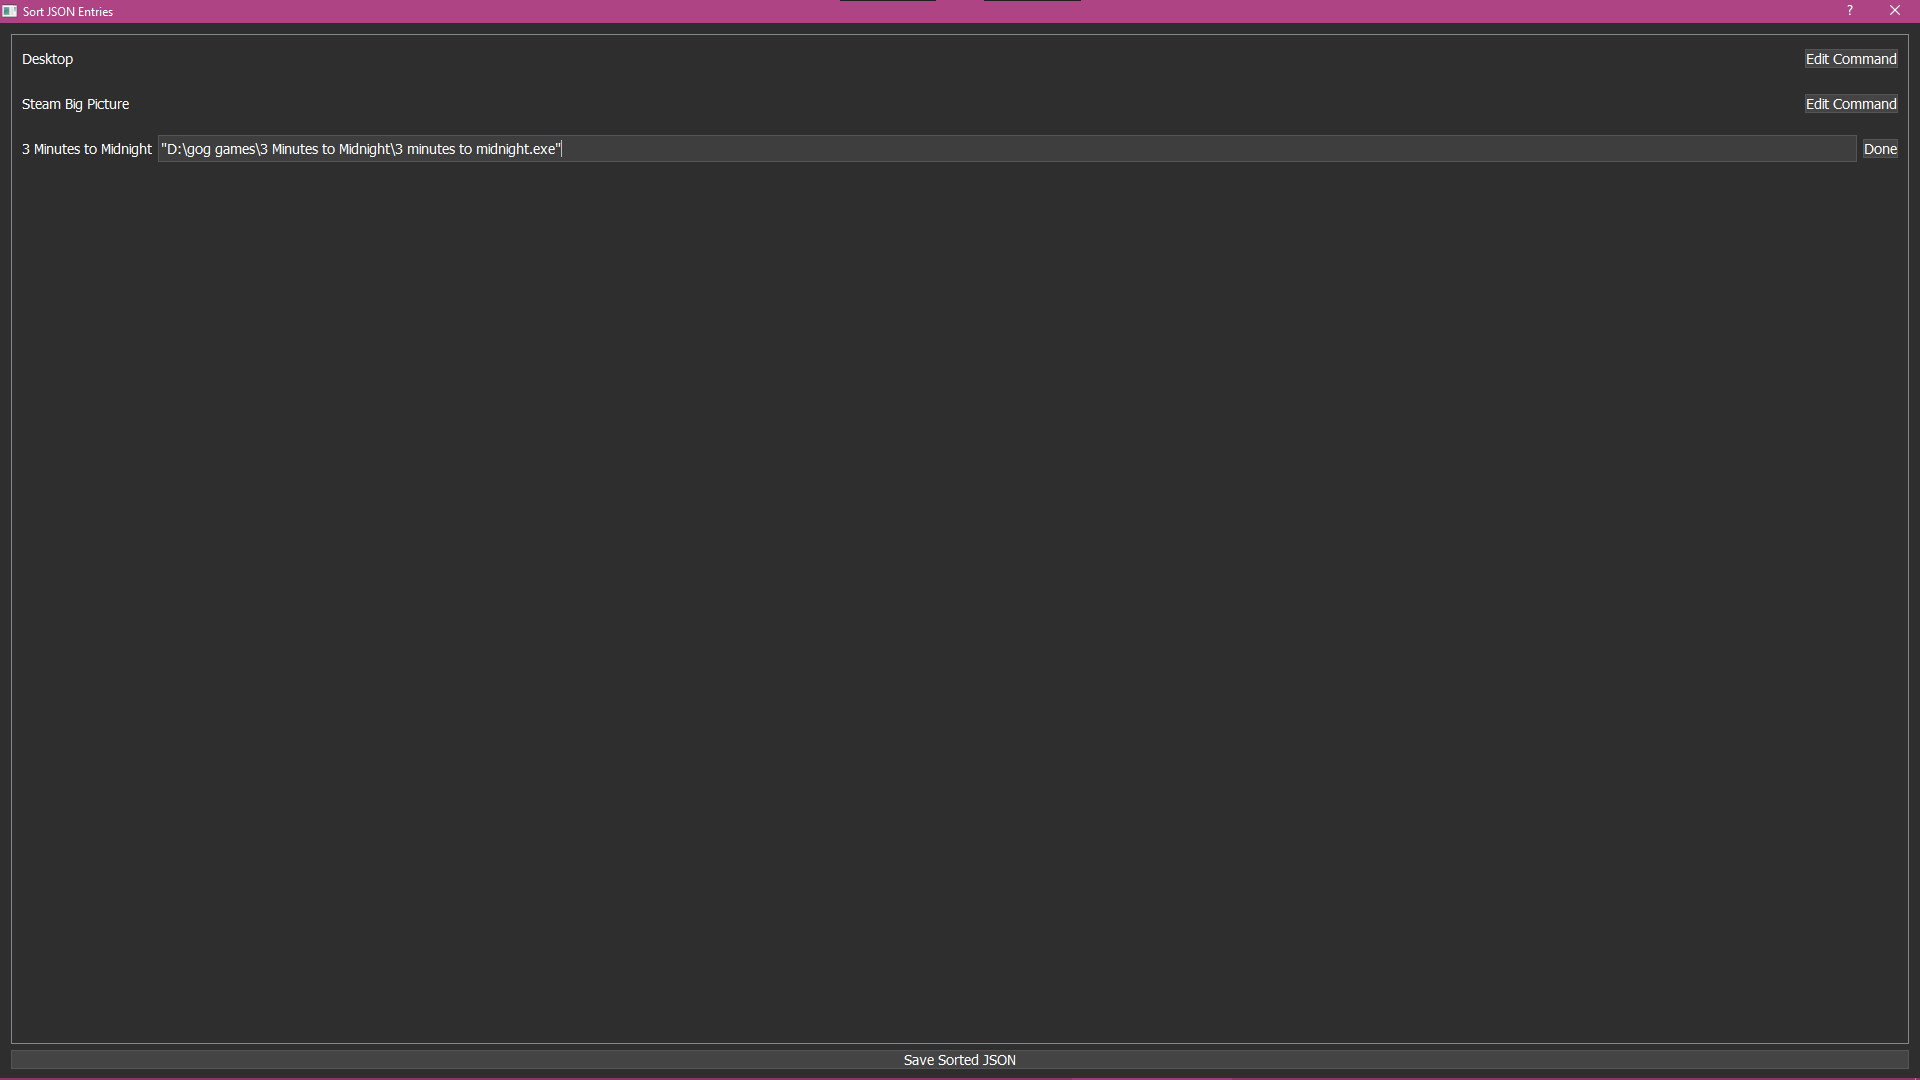
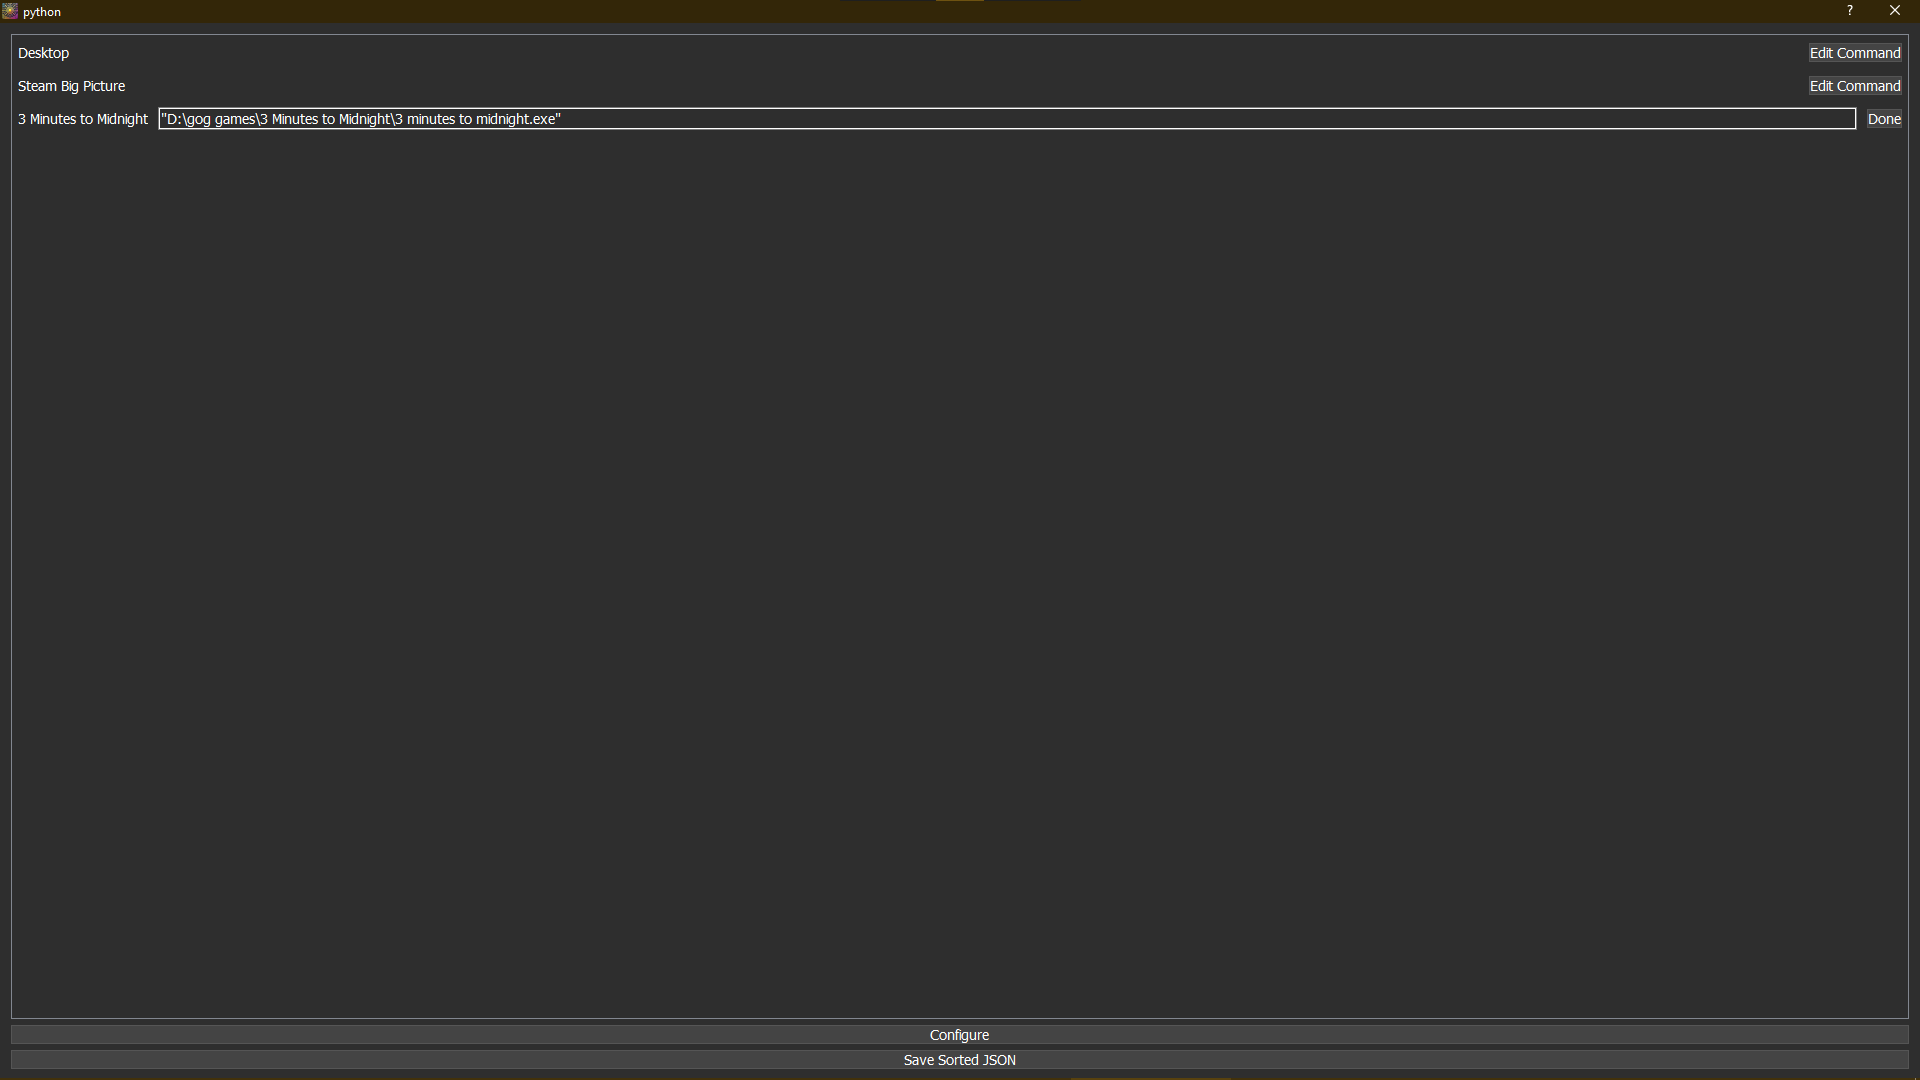
Updated Screenshots

Changed region(s): [[0.0, 0.0, 1.0, 0.1528], [0.4688, 0.9472, 0.5312, 0.9778]]

diff --git a/README.md b/README.md
@@ -10,3 +10,6 @@ Just makes a `.json` with your selected EXE files sorted how you want.
 
 ### Sort JSON Entries
 ![Sort JSON Entries](screenshots/screenshot2.png)
+
+### Set Cover Downloding and API
+![Sort JSON Entries](screenshots/screenshot3.png)
